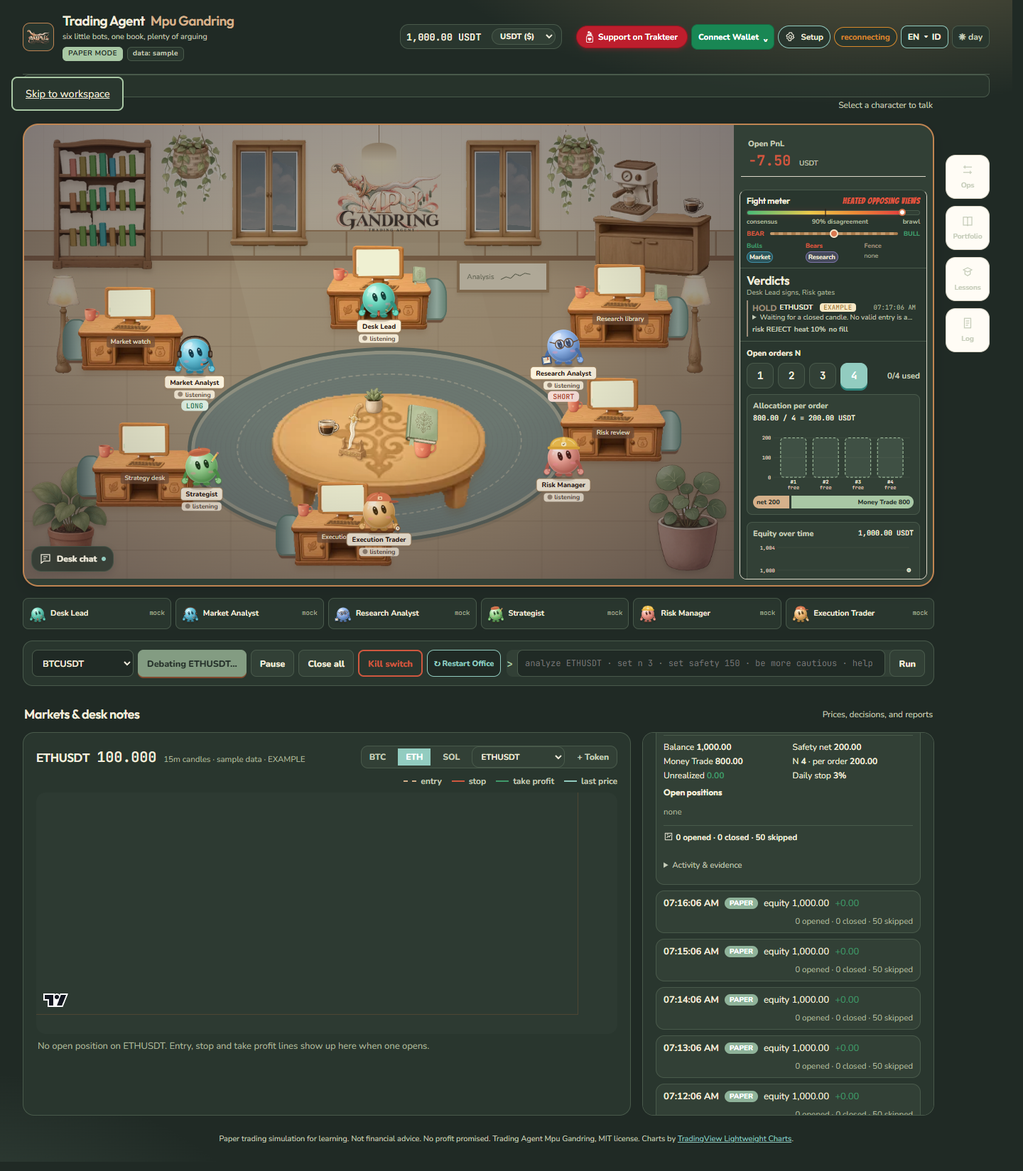
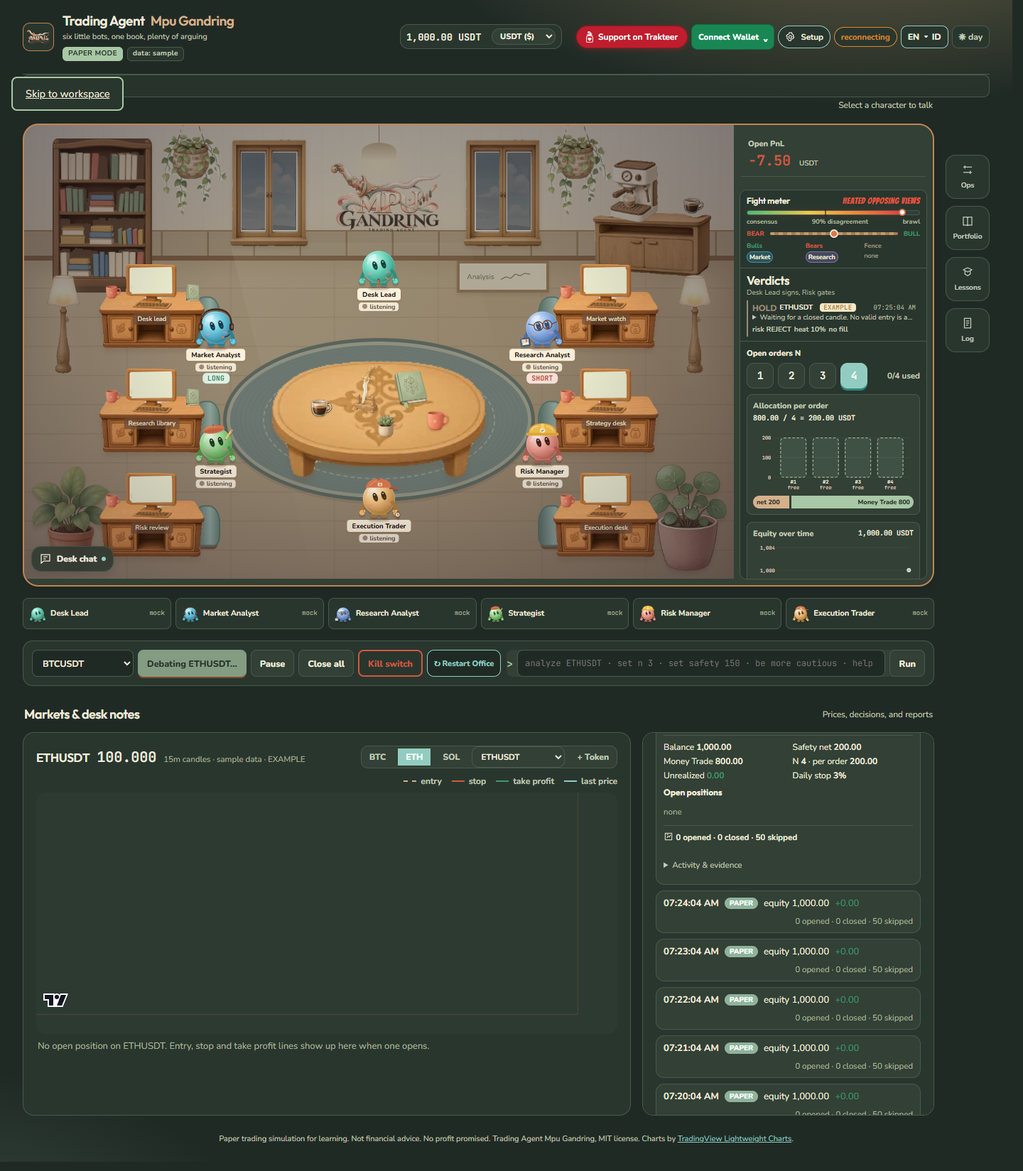
fix: align office furniture and supplied bookshelf sets

Changed region(s): [[0.0312, 0.1237, 0.6875, 0.4948], [0.9062, 0.1237, 0.9688, 0.3093]]

diff --git a/web/src/styles/office-v2.css b/web/src/styles/office-v2.css
@@ -26,23 +26,22 @@
 .window-west { left: 29%; }.window-east { right: 27%; }
 .studio-sign { position: absolute; left: 43%; top: 5%; width: 16%; height: 22%; }
 .studio-sign img { width: 100%; height: 100%; object-fit: contain; }
-.studio-library { position: absolute; left: 4%; top: 3%; height: 29%; width: 14%; }
+.studio-library { position: absolute; left: 4%; top: 3%; width: 14%; aspect-ratio: 771 / 1172; background: #795438; border-radius: 5%; }
 .studio-shelf { width: 100%; height: 100%; object-fit: fill; filter: drop-shadow(1px 5px 3px #63492d33); }
-.studio-books { position: absolute; left: 12%; right: 11%; height: 19%; display: flex; align-items: end; justify-content: center; gap: 2%; }
-.studio-books img { width: 11%; object-fit: fill; }
-.books-0 { top: 10%; }.books-1 { top: 36%; }.books-2 { top: 63%; }
+.studio-books { position: absolute; left: 7%; right: 8%; height: 18%; display: flex; align-items: end; justify-content: space-between; gap: 3%; }
+.studio-books img { min-width: 0; max-width: 100%; height: 100%; object-fit: contain; object-position: center bottom; flex: 1 1 0; }
+.books-0 { top: 9%; }.books-1 { top: 30%; }.books-2 { top: 51%; }.books-3 { top: 72%; }
 .studio-coffee { position: absolute; right: 3%; top: 19%; width: 17%; height: 15%; }
 .studio-coffee > img:first-child { width: 100%; height: 100%; object-fit: fill; }
 .studio-coffee .coffee-machine { position: absolute; width: 42%; height: auto; left: 14%; bottom: 82%; }
 .studio-coffee .coffee-cup { position: absolute; width: 17%; height: auto; right: 7%; top: -20%; }
-.studio-coffee > span { position: absolute; top: -46%; width: 100%; text-align: center; font-size: clamp(7px, .8vw, 11px); font-family: var(--font-head); color: #735738; }
 .studio-vine { position: absolute; top: -5%; height: 25%; object-fit: contain; }
 .vine-west { left: 19%; }.vine-east { right: 17%; }
 .studio-pendant { position: absolute; left: 50%; top: 0; width: 5%; height: 10%; transform: translateX(-50%); opacity: .9; }
 .studio-pendant i { display: block; height: 40%; width: 1px; background: #9d7e58; margin: 0 auto; }
 .studio-pendant span { display: block; height: 40%; border-radius: 50% 50% 15% 15%; background: linear-gradient(#cfb285, #f9eac5); box-shadow: 0 14px 28px #fff0ba; }
 .studio-sunlight { position: absolute; left: 29%; top: 26%; height: 70%; width: 45%; background: linear-gradient(135deg, #fff7cd50, #fff7cd00 75%); clip-path: polygon(0 0, 75% 0, 100% 100%, 25% 100%); mix-blend-mode: soft-light; }
-.studio-rug { position: absolute; left: 23%; top: 49%; width: 54%; height: 43%; border-radius: 50%; background: repeating-radial-gradient(ellipse at center, #91a69b 0 5px, #90a196 6px 7px); border: 5px solid #798b7a; box-shadow: 0 4px 0 #6d725529, inset 0 0 0 5px #c6c7ab; transform: rotate(-2deg); }
+.studio-rug { position: absolute; left: 28%; top: 47%; width: 44%; height: 36%; border-radius: 50%; background: repeating-radial-gradient(ellipse at center, #91a69b 0 5px, #90a196 6px 7px); border: 5px solid #798b7a; box-shadow: 0 4px 0 #6d725529, inset 0 0 0 5px #c6c7ab; transform: none; }
 .studio-rug span { position: absolute; inset: 12%; border: 2px dashed #d8d5b6; border-radius: 50%; opacity: .65; }
 .studio-lamp { position: absolute; width: 5%; height: 26%; object-fit: contain; filter: drop-shadow(0 1px 12px #fff0b64a); }
 .lamp-west { left: 3%; top: 31%; }.lamp-east { right: 3%; top: 31%; }
@@ -53,18 +52,18 @@
 .studio-wall-board svg { width: 45%; height: 100%; }
 .studio-meeting { position: absolute; width: 31%; aspect-ratio: 1.8; transform: translate(-50%, -50%); z-index: 720; pointer-events: none; }
 .studio-meeting > img:first-child { position: absolute; width: 100%; height: 100%; object-fit: fill; filter: drop-shadow(0 9px 5px #69503138); }
-.studio-table-inlay { position: absolute; top: 10%; left: 38%; width: 13%; aspect-ratio: 579 / 1159; transform: translateX(-50%); filter: drop-shadow(1px 2px 1px #69503138); }
+.studio-table-inlay { position: absolute; top: 5%; left: 44%; width: 11%; aspect-ratio: 579 / 1159; transform: translateX(-50%); filter: drop-shadow(1px 2px 1px #69503138); }
 .studio-table-inlay img { position: absolute; display: block; height: auto; }
 .studio-table-inlay .keris-blade { top: 0; left: 31.4%; width: 58.2%; }
 .studio-table-inlay .keris-stand { bottom: 0; left: 0; width: 100%; }
 .studio-meeting .meeting-cup { position: absolute; width: 10%; height: auto; filter: drop-shadow(0 2px 1px #69503138); }
-.meeting-cup.cup-left { left: 22%; top: 23%; }.meeting-cup.cup-right { right: 24%; top: 40%; }
-.studio-meeting .meeting-book { position: absolute; left: 61%; top: 12%; width: 17%; height: auto; transform: rotate(16deg); }
-.studio-meeting .meeting-plant { position: absolute; left: 43%; top: -3%; width: 9%; height: auto; }
+.meeting-cup.cup-left { left: 19%; top: 33%; }.meeting-cup.cup-right { right: 18%; top: 43%; }
+.studio-meeting .meeting-book { position: absolute; left: 57%; top: 10%; width: 15%; height: auto; transform: rotate(0deg); }
+.studio-meeting .meeting-plant { position: absolute; left: 49%; top: 45%; width: 8%; height: auto; }
 .studio-desk { position: absolute; transform: translate(-50%, -50%); width: 15%; aspect-ratio: 1.8; pointer-events: none; }
 .studio-desk-wood { position: absolute; inset: 0; width: 100%; height: 100%; filter: drop-shadow(0 6px 4px #67462c33); }
 .studio-chair { position: absolute; top: 10%; right: -14%; width: 26%; height: 70%; background: linear-gradient(90deg, #566d66, #8fa59a 65%, #668274); border: 2px solid #567064; border-radius: 42% 42% 25% 25%; box-shadow: 0 7px 0 -3px #6d513d; }
-.studio-desk:nth-of-type(even) .studio-chair { right: auto; left: -14%; }
+.studio-desk.desk-east .studio-chair { right: auto; left: -14%; }
 .studio-monitor { position: absolute; left: 24%; top: -48%; width: 51%; height: 75%; }
 .studio-monitor > img { height: 100%; width: 100%; object-fit: fill; }
 .studio-screen { position: absolute; inset: 12% 13% 28%; overflow: hidden; background: #eff0d2; transform: rotate(-1deg); }

diff --git a/web/src/sceneDirector.ts b/web/src/sceneDirector.ts
@@ -6,13 +6,13 @@ export interface SceneEvent { id: string; kind: 'execution' | 'report' | 'verdic
 export interface Activity { pose: Pose; face: Face; label: string; destination?: Point; facing?: 'left' | 'right'; partner?: AgentId }
 // Presentation geometry stays separate from venue configuration and trading decisions.
 export const WORKSTATIONS: Record<AgentId, Point> = {
-  lead: { x: 50, y: 39 }, market: { x: 15, y: 48 }, research: { x: 84, y: 43 },
-  strategist: { x: 17, y: 78 }, risk: { x: 83, y: 68 }, execution: { x: 45, y: 91 }
+  lead: { x: 18, y: 43 }, market: { x: 82, y: 43 }, research: { x: 18, y: 66 },
+  strategist: { x: 82, y: 66 }, risk: { x: 18, y: 89 }, execution: { x: 82, y: 89 }
 };
-export const FIGHT_STAGE = { from: { x: 43, y: 70 }, to: { x: 57, y: 70 } };
+export const FIGHT_STAGE = { from: { x: 43, y: 65 }, to: { x: 57, y: 65 } };
 export const SPECTATORS: Record<AgentId, Point> = {
-  lead: { x: 50, y: 40 }, market: { x: 23, y: 60 }, research: { x: 78, y: 51 },
-  strategist: { x: 26, y: 86 }, risk: { x: 78, y: 80 }, execution: { x: 50, y: 96 }
+  lead: { x: 50, y: 41 }, market: { x: 27, y: 57 }, research: { x: 73, y: 57 },
+  strategist: { x: 27, y: 80 }, risk: { x: 73, y: 80 }, execution: { x: 50, y: 92 }
 };
 
 /** Repeat cartoon sparring only while an actual opposing debate meets the configured heat threshold. */
@@ -45,10 +45,10 @@ export function verdictReactions(v: Verdict): Partial<Record<AgentId, Reaction>>
   return reactions;
 }
 export const SEATS: Record<AgentId, Point> = {
-  lead: { x: 50, y: 48 }, market: { x: 24, y: 63 }, research: { x: 76, y: 61 },
-  strategist: { x: 25, y: 85 }, risk: { x: 76, y: 83 }, execution: { x: 50, y: 95 }
+  lead: { x: 50, y: 41 }, market: { x: 27, y: 57 }, research: { x: 73, y: 57 },
+  strategist: { x: 27, y: 80 }, risk: { x: 73, y: 80 }, execution: { x: 50, y: 92 }
 };
-const destinations = { coffee: { x: 88, y: 37 }, bookshelf: { x: 12, y: 37 }, analysis: { x: 59, y: 52 }, window: { x: 36, y: 37 } };
+const destinations = { coffee: { x: 88, y: 37 }, bookshelf: { x: 12, y: 37 }, analysis: { x: 66, y: 43 }, window: { x: 36, y: 37 } };
 const routines: Record<AgentId, Activity[]> = {
   lead: [{ pose: 'read', face: 'normal', label: 'checking the journal' }, { pose: 'observe', face: 'normal', label: 'visiting analysis', destination: destinations.analysis }, { pose: 'drink', face: 'happy', label: 'coffee break', destination: destinations.coffee }],
   market: [{ pose: 'point', face: 'normal', label: 'checking the chart' }, { pose: 'observe', face: 'normal', label: 'looking out the window', destination: destinations.window }, { pose: 'stretch', face: 'normal', label: 'stretching' }],
@@ -73,8 +73,8 @@ export function directScene(input: { state: DeskState; events: SceneEvent[]; tic
     const from = speech.agent, to = from === 'risk' ? 'execution' : 'lead';
     const available = [from, to].every((id) => !['executing', 'fighting'].includes(state.agents[id as AgentId].status));
     if (available) {
-      frame[from] = { pose: 'pass', face: 'normal', label: 'sharing a report', destination: { x: 46, y: 52 }, facing: 'right', partner: to };
-      frame[to] = { pose: 'read', face: 'normal', label: 'reviewing a report', destination: { x: 59, y: 52 }, facing: 'left', partner: from };
+      frame[from] = { pose: 'pass', face: 'normal', label: 'sharing a report', destination: { x: 43, y: 43 }, facing: 'right', partner: to };
+      frame[to] = { pose: 'read', face: 'normal', label: 'reviewing a report', destination: { x: 57, y: 43 }, facing: 'left', partner: from };
     }
   }
   if (hidden || reducedMotion) for (const a of Object.values(frame)) { delete a.destination; delete a.partner; }
@@ -104,7 +104,7 @@ export function activityFor(state: DeskState, id: AgentId, slot: number, visitor
 
 export function blocked(p: Point, desks: Point[]) {
   if (p.x < 8 || p.x > 92 || p.y < 34 || p.y > 97) return true;
-  if (p.x > 36 && p.x < 64 && p.y > 61 && p.y < 81) return true;
+  if (p.x > 36 && p.x < 64 && p.y > 53 && p.y < 76) return true;
   return desks.some((d) => Math.abs(p.x - d.x) < 6.5 && p.y > d.y - 5 && p.y < d.y + 2);
 }
 const clear = (a: Point, b: Point, desks: Point[]) => {

diff --git a/web/src/components/Office.tsx b/web/src/components/Office.tsx
@@ -191,9 +191,9 @@ export function Office({ state, sceneEvents, speech, fights, reactions, disagree
         <div className="studio-sign"><img src="/mpu-gandring-logo.webp" alt="" /></div>
         <div className="studio-library">
           <img className="studio-shelf" src={asset('011_red-books_wooden-bookshelf-1')} alt="" />
-          {[0, 1, 2].map((row) => <div className={`studio-books books-${row}`} key={row}>{Array.from({ length: 7 }, (_, i) => <img key={i} src={asset('011_red-books_1')} alt="" style={{ filter: `hue-rotate(${(i * 43 + row * 17) % 180}deg)`, height: `${74 + (i * 7 % 25)}%` }} />)}</div>)}
+          {[[11, 8], [3, 1, 5], [2, 4, 9], [12]].map((books, row) => <div className={`studio-books books-${row}`} key={row}>{books.map((book) => <img key={book} src={asset(`011_red-books_stacked-books-${book}`)} alt="" />)}</div>)}
         </div>
-        <div className="studio-coffee"><img src={asset('023_keyboard_office-desk-7')} alt="" /><img className="coffee-machine" src={asset('051_red-mug_espresso-machine')} alt="" /><img className="coffee-cup" src={asset('012_coffee-cup')} alt="" /><span>the coffee corner</span></div>
+        <div className="studio-coffee"><img src={asset('023_keyboard_office-desk-7')} alt="" /><img className="coffee-machine" src={asset('051_red-mug_espresso-machine')} alt="" /><img className="coffee-cup" src={asset('012_coffee-cup')} alt="" /></div>
         <img className="studio-vine vine-west" src={asset('023_keyboard_hanging-plant')} alt="" />
         <img className="studio-vine vine-east" src={asset('023_keyboard_hanging-plant')} alt="" />
         <div className="studio-pendant"><i /><span /></div>
@@ -205,7 +205,7 @@ export function Office({ state, sceneEvents, speech, fights, reactions, disagree
         <img className="studio-plant plant-east" src={asset('022_soil_potted-plant')} alt="" />
         <div className="studio-wall-board"><span>{t('analysisBoardText')}</span><svg viewBox="0 0 90 30"><path d="M4 23 L18 16 L31 20 L44 8 L57 13 L70 6 L85 9" fill="none" stroke="currentColor" strokeWidth="2" /></svg></div>
       </div>
-      <div className="studio-meeting" style={{ left: '50%', top: '72%' }} aria-label="Agent discussion table">
+      <div className="studio-meeting" style={{ left: '50%', top: '65%' }} aria-label="Agent discussion table">
         <img src={asset('023_keyboard_round-coffee-table')} alt="" />
         <div className="studio-table-inlay">
           <img className="keris-blade" src={asset('026_curved-blade_ornate-dagger')} alt="" width={337} height={940} />
@@ -222,7 +222,7 @@ export function Office({ state, sceneEvents, speech, fights, reactions, disagree
         const desk = WORKSTATIONS[id];
         const busy = !inDebate && a.status !== 'idle';
         return (
-          <div key={`desk-${id}`} data-desk={id} className={`studio-desk ${busy ? 'is-busy' : ''}`} style={{ left: `${desk.x}%`, top: `${desk.y}%`, zIndex: Math.round(desk.y * 10) + 5, ['--agent' as string]: a.color }} aria-hidden="true">
+          <div key={`desk-${id}`} data-desk={id} className={`studio-desk ${desk.x > 50 ? 'desk-east' : 'desk-west'} ${busy ? 'is-busy' : ''}`} style={{ left: `${desk.x}%`, top: `${desk.y}%`, zIndex: Math.round(desk.y * 10) + 5, ['--agent' as string]: a.color }} aria-hidden="true">
             <div className="studio-chair" />
             <img className="studio-desk-wood" src={asset('023_keyboard_computer-desk-5')} alt="" />
             <div className="studio-monitor"><img src={asset('023_keyboard_computer-monitor-1')} alt="" /><div className="studio-screen"><Sparkline values={spark} up={up} /></div></div>

diff --git a/scripts/verify-office-ui.ts b/scripts/verify-office-ui.ts
@@ -80,6 +80,18 @@ try {
       const pnl = document.querySelector('.office-pnl')!.getBoundingClientRect();
       const overlaps = (a: DOMRect, b: DOMRect) => a.left < b.right - 1 && a.right > b.left + 1 && a.top < b.bottom - 1 && a.bottom > b.top + 1;
       const errors: string[] = [];
+      const table = document.querySelector('.studio-meeting')!.getBoundingClientRect();
+      if (Math.abs(table.x + table.width / 2 - (world.x + world.width / 2)) > 1 || Math.abs(table.y + table.height / 2 - (world.y + world.height * .65)) > 1) errors.push('Table is not centered on the floor');
+      const decor = [...document.querySelectorAll('.studio-table-inlay, .meeting-cup, .meeting-book, .meeting-plant')];
+      for (let i = 0; i < decor.length; i++) for (let j = i + 1; j < decor.length; j++) {
+        if (overlaps(decor[i].getBoundingClientRect(), decor[j].getBoundingClientRect())) errors.push('Table decorations overlap');
+      }
+      const shelves = [...document.querySelectorAll('.studio-books')];
+      if (shelves.length !== 4) errors.push('Bookshelf must have four stocked levels');
+      for (const shelf of shelves) {
+        const books = [...shelf.children];
+        for (let i = 1; i < books.length; i++) if (overlaps(books[i - 1].getBoundingClientRect(), books[i].getBoundingClientRect())) errors.push('Bookshelf groups overlap');
+      }
       if (overlaps(world, hud)) errors.push('HUD covers the room');
       if (overlaps(world, pnl)) errors.push('PnL covers the room');
       for (const element of document.querySelectorAll('.office-world .agent .bot')) {

diff --git a/tests/i18n.test.ts b/tests/i18n.test.ts
@@ -43,22 +43,22 @@ describe('Dual language i18n parity and updater adapter', () => {
   });
 
   it('compares dotted version strings and checks update status at current release version', async () => {
-    expect(APP_VERSION).toBe('0.0.0.3.8');
+    expect(APP_VERSION).toBe('0.0.0.3.9');
     expect(compareVersions('0.0.0.2.6', '0.0.0.2.6')).toBe(0);
     expect(compareVersions('0.0.0.2.6', '0.0.0.2.5')).toBe(1);
     expect(compareVersions('0.0.0.3.3', '0.0.0.2.6')).toBe(1);
     expect(compareVersions('0.0.0.1.9', '0.0.0.2.6')).toBe(-1);
 
     const fakeNewerFetch = async () =>
-      new Response(JSON.stringify({ appVersion: '0.0.0.3.9', changelog: ['New feature'] }), { status: 200 });
+      new Response(JSON.stringify({ appVersion: '0.0.0.3.10', changelog: ['New feature'] }), { status: 200 });
     const st = await checkUpdate(fakeNewerFetch as unknown as typeof fetch);
     expect(st.ok).toBe(true);
-    expect(st.currentVersion).toBe('0.0.0.3.8');
-    expect(st.latestVersion).toBe('0.0.0.3.9');
+    expect(st.currentVersion).toBe('0.0.0.3.9');
+    expect(st.latestVersion).toBe('0.0.0.3.10');
     expect(st.updateAvailable).toBe(true);
 
     const applied = applyUpdate(process.cwd(), () => ({ status: 0, stdout: 'Already up to date.\\n', stderr: '' }));
     expect(applied.ok).toBe(true);
-    expect(applied.currentVersion).toBe('0.0.0.3.8');
+    expect(applied.currentVersion).toBe('0.0.0.3.9');
   });
 });

diff --git a/tests/scene-director.test.ts b/tests/scene-director.test.ts
@@ -1,5 +1,5 @@
 import { describe, it, expect } from 'vitest';
-import { ambientActivity, eventActivity, route, blocked, directScene, verdictReactions, heatedDebateFight, officePnl } from '../web/src/sceneDirector';
+import { WORKSTATIONS, ambientActivity, eventActivity, route, blocked, directScene, verdictReactions, heatedDebateFight, officePnl } from '../web/src/sceneDirector';
 import { AGENT_ORDER } from '../web/src/types';
 import type { DeskState, Verdict } from '../web/src/types';
 import { Desk } from '../server/desk';
@@ -59,10 +59,10 @@ describe('office director', () => {
     const input = sceneFixture(), frame = directScene(input);
     expect(frame.research.partner).toBe('lead');
     expect(frame.research.destination).not.toEqual(frame.lead.destination);
-    const desks = AGENT_ORDER.map((id) => input.state.agents[id].desk);
+    const desks = AGENT_ORDER.map((id) => WORKSTATIONS[id]);
     for (const id of ['research', 'lead'] as const) {
       const destination = frame[id].destination!;
-      const desk = input.state.agents[id].desk;
+      const desk = WORKSTATIONS[id];
       const from = { x: desk.x + (desk.x <= 50 ? 7.8 : -7.8), y: desk.y + 5.5 };
       expect(route(from, destination, desks).at(-1)).toEqual(destination);
     }

diff --git a/server/updater.ts b/server/updater.ts
@@ -2,7 +2,7 @@ import { spawnSync } from 'node:child_process';
 import { readFileSync } from 'node:fs';
 import path from 'node:path';
 
-export const APP_VERSION = '0.0.0.3.8';
+export const APP_VERSION = '0.0.0.3.9';
 export const REPO_RAW_PKG_URL = 'https://raw.githubusercontent.com/aabrur/trading-agent-mpu-gandring/main/package.json';
 export const REPO_URL = 'https://github.com/aabrur/trading-agent-mpu-gandring';
 

diff --git a/README.md b/README.md
@@ -14,15 +14,15 @@ You watch all of it live in a little virtual office in your browser, and you can
 
 Screenshots use isolated PAPER/mock fixtures and simulated data. They demonstrate the interface, not exchange execution or trading results.
 
-## Illustrated office (v0.0.0.3.8)
+## Illustrated office (v0.0.0.3.9)
 
 The office uses supplied wood furniture, a shared carved discussion table, a stocked library, sky windows, hanging plants, lamps and a coffee corner. Six animated characters retain their own workstation, role accessories, activity, debate and chat controls. Day and night themes extend across the room, map panels, agent roster, markets and reports.
 
 The office opens directly below the ticker, without a workspace hero or account-summary section. The six-agent roster stays in one compact, equal-height row, with horizontal scrolling on narrow screens. Open-order controls, allocation, equity history and positions sit in the map rail alongside Open PnL, the fight meter and verdicts. The rail scrolls independently on desktop. Portfolio retains balance, safety-net and venue-account settings.
 
-The wall displays only the project logo. An espresso machine sits on the coffee counter, and the discussion table carries coffee, a book, a plant and the supplied ornate keris (`026_curved-blade_ornate-dagger`) mounted upright in its matching wooden display stand. Tool panels freeze background-page scrolling while the pointer is inside, and release it on pointer exit or close. Map PnL shows the label and USDT value without mode/source text; provenance remains accessible in its description. Existing trading commands and guards keep their behavior.
+The discussion table is centered on the usable floor, with six workstations aligned in two balanced columns. Four bookshelf levels use the supplied assembled book groups, and tabletop cups, book, plant and keris each have separate space. The wall displays only the project logo. An espresso machine sits on the coffee counter, and the discussion table carries coffee, a book, a plant and the supplied ornate keris (`026_curved-blade_ornate-dagger`) mounted upright in its matching wooden display stand. Tool panels freeze background-page scrolling while the pointer is inside, and release it on pointer exit or close. Map PnL shows the label and USDT value without mode/source text; provenance remains accessible in its description. Existing trading commands and guards keep their behavior.
 
-Runtime artwork lives in `web/public/office-assets/`: 20 optimized WebP images, about 307 KiB total, with original filenames and archive provenance in `manifest.json`. The supplied `web/public/mpu-gandring-assets/` authoring library stays local and is ignored by Git. Production builds copy only runtime artwork and the two branding images, so clones do not need the original library. Replaced inline room artwork and furniture CSS have been removed.
+Runtime artwork lives in `web/public/office-assets/`: 28 optimized WebP images, about 355 KiB total, with original filenames and archive provenance in `manifest.json`. The supplied `web/public/mpu-gandring-assets/` authoring library stays local and is ignored by Git. Production builds copy only runtime artwork and the two branding images, so clones do not need the original library. Replaced inline room artwork and furniture CSS have been removed.
 
 Validation: typecheck, production build and offline UI checks pass, including desktop, 375px phone, 812px landscape, night mode, loaded artwork, wallet sessions, discussion, compact roster, panel scroll containment and reduced motion. The full suite remains at its pre-existing baseline of **358 passing / 15 failing tests** in trading-default and risk-related tests. See [the verification record](docs/qa/2026-10-21-office-redesign.md). This release does not resolve those failures.
 
@@ -80,14 +80,14 @@ No model API keys needed: six Grok Bot agents are the employees and the brains, 
 - **A cozy office with brutal cartoon smoke-cloud fights and spectator reactions.** Wood floors, a woven rug, sky windows, a coffee corner and six round little bots with mitten hands. Each role has its own color and prop: tie, keris pin and journal papers for the Lead, headset for Market, glasses and newspaper for Research, beret and pencil for the Strategist, hard hat for Risk and cap and stopwatch for Execution. When disagreement crosses the threshold, agents dive into a cartoon dust/smoke cloud with flying fists, spinning stars, lightning bolts and impact bursts (`GEBUK!`, `POW!`, `WHAM!`, `BONK!`), while bystander bots react with worried expressions and speech without blocking execution.
 - **Interactive pop-up tutorial on every start.** A 9-step guided onboarding tour launches automatically on startup (and via **Setup > Tutorial** in the top bar), highlighting each section of the desk with a spotlight and directional arrow.
 - **Dual language mode: EN and ID.** Defaults to English (`EN`) and switches instantly to Bahasa Indonesia (`ID`) from the top bar (`EN ▾ ID`), backed by a strictly synchronized 1:1 translation dictionary verified by automated tests.
-- **In-app Version & Lit-Up Update Notification (`v0.0.0.3.8`).** The lit-up version notification badge (`v0.0.0.3.8 · Update ↑`) in the top bar checks GitHub for new releases via `GET /api/update/status` and lets you pull and build the latest version in one click via `POST /api/update/apply`.
+- **In-app Version & Lit-Up Update Notification (`v0.0.0.3.9`).** The lit-up version notification badge (`v0.0.0.3.9 · Update ↑`) in the top bar checks GitHub for new releases via `GET /api/update/status` and lets you pull and build the latest version in one click via `POST /api/update/apply`.
 - **Charts you can read.** A candlestick chart for the selected symbol with a price scale, time labels, the last price and dashed entry, stop and take profit lines for open paper positions. The paper book has an equity curve and allocation bars for Money Trade / N, and every desk monitor shows a sparkline.
 - **Day and night.** A toggle in the top bar. All colors and fonts live in `web/src/styles/tokens.css`.
 - **Live office feed.** Status, speech bubbles and fights stream over WebSocket, next to the fight meter, ticker strip, verdict cards and a desk log.
 - **Talk to the agents.** Click an agent to chat or give commands like `analyze ETHUSDT`, `be more cautious` or `close all`.
 - **Optional Grok Bot bridge.** Send verdicts and commands to a Grok Bot webhook routine from the server. Off by default.
 
-## Compact office controls (v0.0.0.3.8)
+## Compact office controls (v0.0.0.3.9)
 
 - Open **Ops**, **Portfolio**, **Lessons**, or **Log** from the bubble menu at the right. Panels stay closed until selected. Close with the same bubble, the close button, Escape, or a click outside. On phones the menu sits at the bottom-right.
 - **Reports** sits beside the price chart on desktop and below it on narrow screens. Open activity and evidence only when needed.
@@ -139,7 +139,7 @@ Refused everywhere: main wallet private keys, seed phrases, keys that can withdr
 | Interactive onboarding tour | N/A | Launches on every start, or open **Setup > Tutorial** in the top bar |
 | Optional Jev decision sidecar | Setup > Models, `JEV_ENABLED=true` | Shadow does not block. LIVE ASSIST needs Setup authorization. Never places orders |
 | Switch UI language (`EN` default / `ID`) | N/A | **EN ▾ ID** toggle in top bar |
-| Check version (`v0.0.0.3.8`) & one-click update | `git pull --ff-only && npm run build` | Lit-up **v0.0.0.3.8 · Update ↑** button in top bar |
+| Check version (`v0.0.0.3.9`) & one-click update | `git pull --ff-only && npm run build` | Lit-up **v0.0.0.3.9 · Update ↑** button in top bar |
 | Doctor / permission check | `npm run doctor`, `npm run setup -- check-key --network testnet` | Setup > Exchange & Safety **Run doctor** |
 | Switch mode to TESTNET or LIVE | `npm run setup -- --yes --trading-mode testnet` / `... live --confirm-live "I understand LIVE trades real money"` | Setup > Exchange & Safety |
 | What is configured with secrets masked | `npm run setup -- status` | Setup header and status lines |
@@ -415,7 +415,7 @@ server/            Express + WebSocket backend
   exchange/        adapter interface; Bybit implemented; Binance, OKX, Hyperliquid, Aster, dYdX, Paradex, Orderly experimental
   live/            automatic key guard, optional testnet round trip, live executor
   wallet.ts        Connect wallet: DEX agent key + one signed approval + live venue balance + official deposit links
-  updater.ts       in-app version check (v0.0.0.3.8) and one-click git fast-forward updater
+  updater.ts       in-app version check (v0.0.0.3.9) and one-click git fast-forward updater
   auto.ts          full auto scheduler
   reports.ts       periodic reports to files, UI, bridge and Telegram
   learnings.ts     self-improving lessons store and the guard-loosening block
@@ -453,7 +453,7 @@ Proyek ini simulasi trading kertas secara default. Enam agen AI berdebat, kadang
    mpu
    ```
 3. Ketik `mpu` kapan saja di terminal untuk langsung menjalankan desk dan membuka Web UI secara otomatis, atau `mpu setup` untuk langsung membuka menu pengaturan bernavigasi sidebar kiri. Di halaman Setup, Anda bisa mengatur saldo paper, safety net, memilih model untuk setiap agent dari 10 provider yang masing-masing menyediakan 20 model AI sehingga 1 API key bisa dipakai untuk banyak model, atau langsung menghubungkan agent CLI yang sudah terpasang di laptop Anda seperti Codex, Claude Code, Pi, Kimi Code, Kilo, Cline dan Grok Build maupun supervisor eksternal seperti Antigravity dan Grok Bot.
-4. Tanpa API key pun jalan, karena ada provider `mock`. Di navbar bagian atas tersedia dropdown **Connect Wallet** khusus wallet EVM DEX, tombol **Setup**, menu **Setup > Tutorial** untuk panduan pop-up interaktif 9 langkah, tombol **v0.0.0.3.8** untuk cek & klik update versi secara langsung, serta tombol **EN ▾ ID** untuk mengganti bahasa tampilan antara Bahasa Inggris dan Bahasa Indonesia. Tersedia pula 4 preset risiko trading bawaan (Default, Balance, Profit, High Risk High Reward) yang dapat dipilih langsung dari Setup atau dropdown ringkas di atas tombol Cycle now pada Desk Ops Auto Trade.
+4. Tanpa API key pun jalan, karena ada provider `mock`. Di navbar bagian atas tersedia dropdown **Connect Wallet** khusus wallet EVM DEX, tombol **Setup**, menu **Setup > Tutorial** untuk panduan pop-up interaktif 9 langkah, tombol **v0.0.0.3.9** untuk cek & klik update versi secara langsung, serta tombol **EN ▾ ID** untuk mengganti bahasa tampilan antara Bahasa Inggris dan Bahasa Indonesia. Tersedia pula 4 preset risiko trading bawaan (Default, Balance, Profit, High Risk High Reward) yang dapat dipilih langsung dari Setup atau dropdown ringkas di atas tombol Cycle now pada Desk Ops Auto Trade.
 5. Aturan uang: Money Trade = total saldo dikurangi safety net, lalu dibagi N order dari 1 sampai 4. Contoh saldo 100, safety net 20, N = 4, berarti 20 USDT per order. Safety net tidak pernah disentuh dan setiap order wajib pakai stop loss. Anda juga bisa memilih token perp apa saja lewat dropdown Watchlist, Popular Perps, atau `+ Custom token...` di Price Chart, Command Bar, dan Desk Ops.
 6. Mau trading di exchange? Pakai akun dan key **milik Anda sendiri**. Urutannya PAPER, lalu TESTNET, LIVE paling akhir. Jalankan `mpu setup` atau `npm run setup` atau klik tombol **Setup** di kanan atas office: pilih venue dan mode, ikuti link langsung satu per satu untuk daftar, dana tes, halaman pembuatan key dan izin yang dicentang, lalu ketik key di input tersembunyi. Key masuk ke `.env` dengan chmod 600, tidak pernah ke chat. Izin: trade saja, withdraw dan transfer MATI. Private key dompet utama dan seed phrase selalu ditolak. Untuk DEX (`Hyperliquid`, `Aster`, `dYdX v4`, `Paradex`, `Orderly`) bisa melalui tombol **Connect Wallet** yang juga menampilkan saldo USDT secara live serta tombol **Halaman deposit resmi** untuk setiap DEX/CEX. Setelah itu jalankan `npm run doctor`. Panduan per venue: [docs/setup/](docs/setup/README.md). Untuk LIVE harus mengetik kalimat konfirmasi.
 7. Pakai agen AI sendiri? Grok Bot: [grokbot/INSTALL.md](grokbot/INSTALL.md), jalan di komputer Grok Bot, bukan laptop kamu. Muse Code: [docs/muse-code.md](docs/muse-code.md) dan [MUSE.md](MUSE.md). Claude Code, Codex, Antigravity, Cursor atau Copilot: [AGENTS.md](AGENTS.md) dan [docs/local-agents.md](docs/local-agents.md).

diff --git a/docs/qa/2026-10-21-office-redesign.md b/docs/qa/2026-10-21-office-redesign.md
@@ -45,3 +45,10 @@ Replaced only the discussion-table KerisBlade drawing with an optimized WebP of 
 ## Matching keris stand: v0.0.0.3.8
 
 Corrected the previous table placement: the ornate keris is now mounted upright in the supplied `026_curved-blade_wooden-display-stand.png`, with its base resting on the tabletop. Preserved surrounding decorations. Typecheck, production build and offline office UI checks passed; the resulting screenshot was visually inspected. Full-suite baseline failures remain unresolved and were not rerun for this artwork correction.
+
+
+## Office arrangement: v0.0.0.3.9
+
+Centered the discussion table at the center of the usable floor (x=50%, y=65% with the floor starting at y=30%). Aligned the six workstations in two balanced columns and updated agent seats, spectator positions, report-sharing destinations and table collision bounds to match. Separated the keris stand, cups, book and plant. Replaced repeated hue-shifted individual books with nine supplied assembled book groups across all four shelf levels. Removed the clipped coffee-corner caption and unused single-book runtime image.
+
+Verification: 14 focused scene/updater tests passed, typecheck passed, production build passed, and offline browser checks passed at desktop, 375px phone and 812px landscape, with day/night and reduced-motion coverage. Browser assertions now verify table centering, separate tabletop decoration bounds and non-overlapping bookshelf groups on four levels. Desktop and mobile screenshots were inspected. Runtime assets total 363,320 bytes across 28 WebP files; the authoring library remains excluded from the production output. README screenshots were refreshed from simulated PAPER fixtures. The previously documented 15 full-suite failures were not rerun or repaired for this layout patch.
